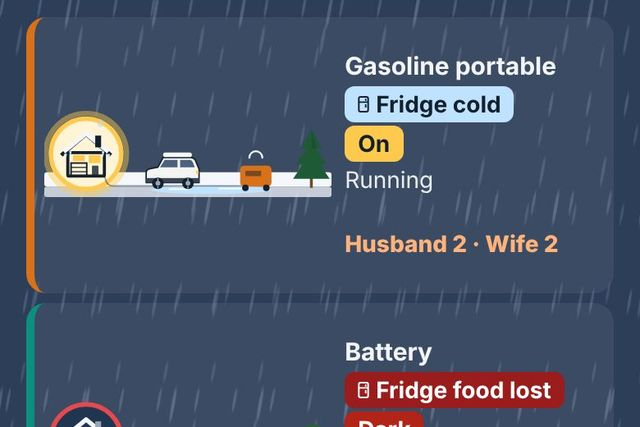
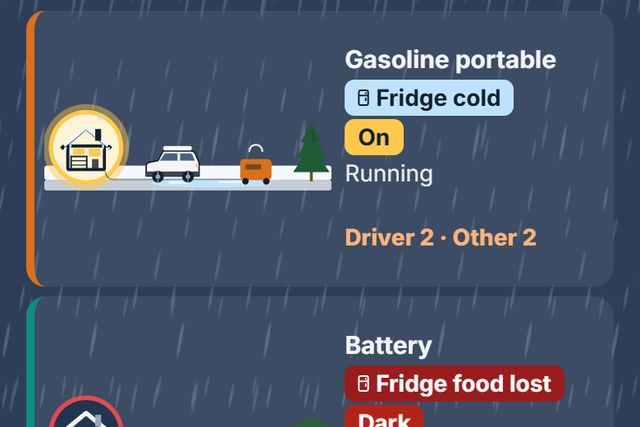
backup-power: make the household plainly invented (#2)
**TL;DR:** The storm test's household is now two invented people, one who drives and one who doesn't, instead of a husband and wife who could be mistaken for real people. The simulation and every number are unchanged.

diff --git a/pages/backup-power/app.js b/pages/backup-power/app.js
@@ -308,7 +308,7 @@ class Component extends DCLogic {
           var due = x0 + SB_OIL;
           if (!present(due)) { oilDue = due; if (H >= 1e9) break; due = H; }
           nOil++;
-          x0 = oilCheck(due, 0.5, nOil % 2 ? "Husband" : "Wife", "Daily oil check, off 30 minutes", (due > x0 + SB_OIL ? "Home from vacation; it ran with nobody checking the oil. " : "") + "Every 24 hours: shut it off for 30 minutes, check and top up the oil, restart.");
+          x0 = oilCheck(due, 0.5, nOil % 2 ? "Other person" : "Driver", "Daily oil check, off 30 minutes", (due > x0 + SB_OIL ? "Home from vacation; it ran with nobody checking the oil. " : "") + "Every 24 hours: shut it off for 30 minutes, check and top up the oil, restart.");
         }
         return out();
       }
@@ -320,7 +320,7 @@ class Component extends DCLogic {
       if (x >= 1e9) return out();
       var back = x > 0 ? "Home from vacation, house dark. " : "";
       if (d.batt) {
-        var sb0 = job(x, SU, "setup", "Wife", "Plugging in the battery", back + "Run the cord from the battery to the outside plug and flip the panel switch.", "Plug it in", "batt");
+        var sb0 = job(x, SU, "setup", "Driver", "Plugging in the battery", back + "Run the cord from the battery to the outside plug and flip the panel switch.", "Plug it in", "batt");
         dark.push([x, sb0 + SU]);
         battEnd = sb0 + SU + BATT_H;
         if (d.gen === "none") { dark.push([battEnd, 1e9]); return out(); }
@@ -332,7 +332,7 @@ class Component extends DCLogic {
       }
       var k = 0;
       function setup(at, prefix) {
-        var s = job(at, SU, "setup", "Husband", setupGen[0], prefix + setupGen[1], "Go outside", "gen");
+        var s = job(at, SU, "setup", "Other person", setupGen[0], prefix + setupGen[1], "Go outside", "gen");
         dark.push([at, s + SU]);
         return s + SU;
       }
@@ -343,7 +343,7 @@ class Component extends DCLogic {
         if (LL < 1e9 && LL < ev && H > x) {  // leaving during this run (or while it was still being set up)
           var P = Math.max(LL, x); LL = 1e9;
           if (d.gen === "gas") gasRuns.push([x, P]);
-          job(P, 0.25, "pack", "Husband", "Packing it up before leaving", "Leaving? It can't run with nobody home. Shut it off, let it cool, unhook it, roll it back in.", "Pack it up", "gen");
+          job(P, 0.25, "pack", "Other person", "Packing it up before leaving", "Leaving? It can't run with nobody home. Shut it off, let it cool, unhook it, roll it back in.", "Pack it up", "gen");
           dark.push([P, H]);
           if (H >= 1e9) break;
           x = setup(H, "Home from vacation, house dark. ");
@@ -352,13 +352,13 @@ class Component extends DCLogic {
         if (d.gen === "gas") {
           gasRuns.push([x, ev]); k++;
           var far = k % 4 === 3, ready = 0;
-          if (k >= 3 && k % 2 === 1) { var td = far ? 2.5 : 1.5; ready = job(ev - (far ? 4 : 3), td, "trip", "Wife", far ? "Nearest station had no power; driving farther" : "Driving out for gas, if a station has power", "Gas cans are empty. The husband doesn't drive anymore, so the wife goes, in this weather, hoping a station has power.", "Drive to the station") + td; }
-          var rs = job(Math.max(ev, ready), 0.25, "refill", k % 2 ? "Husband" : "Wife", "Refilling and checking oil, engine off", "Tank almost empty. Go out, shut it off, let it cool, refill, check the oil.", "Go refill it");
+          if (k >= 3 && k % 2 === 1) { var td = far ? 2.5 : 1.5; ready = job(ev - (far ? 4 : 3), td, "trip", "Driver", far ? "Nearest station had no power; driving farther" : "Driving out for gas, if a station has power", "Gas cans are empty. Only the driver can go, in this weather, hoping a station has power.", "Drive to the station") + td; }
+          var rs = job(Math.max(ev, ready), 0.25, "refill", k % 2 ? "Other person" : "Driver", "Refilling and checking oil, engine off", "Tank almost empty. Go out, shut it off, let it cool, refill, check the oil.", "Go refill it");
           dark.push([ev, rs + 0.25]);
           x = rs + 0.25;
         } else {
           nOil++;
-          x = oilCheck(ev, 0.25, nOil % 2 ? "Husband" : "Wife", "Oil check, engine off", "Every 8 hours: go out, shut it off, check and top up the oil, restart.");
+          x = oilCheck(ev, 0.25, nOil % 2 ? "Other person" : "Driver", "Oil check, engine off", "Every 8 hours: go out, shut it off, check and top up the oil, restart.");
         }
       }
       return out();
@@ -370,7 +370,7 @@ class Component extends DCLogic {
         if (x > 0) dark.push([0, x]);
         if (x >= 1e9) return out();
         var back = x > 0 ? "Home from vacation, house dark. " : "";
-        var s1 = job(x, 0.25, "setup", "Wife", "Plugging in the battery", back + "Run the cord from the battery to the outside plug and flip the panel switch.", "Plug it in", "batt");
+        var s1 = job(x, 0.25, "setup", "Driver", "Plugging in the battery", back + "Run the cord from the battery to the outside plug and flip the panel switch.", "Plug it in", "batt");
         if (s1 > x) dark.push([x, s1 + 0.25]);  // plugged in late: dark until the plug-in is done
         var LL = L;
         var t0 = setupGen(s1 + 0.25, "Push out the 263 lb generator and connect it to the battery. After this, the phone app starts and stops it.", s1 + 0.25 + BATT_H);
@@ -385,8 +385,8 @@ class Component extends DCLogic {
             if (r > t0) {
               k++;
               var ready = 0;
-              if (k >= 3 && k % 2 === 1 && r - 18 > t0) ready = job(r - 18, 1.5, "trip", "Wife", "Driving out for gas, if a station has power", "Gas cans are empty. The husband doesn't drive anymore, so the wife goes, hoping a station has power.", "Drive to the station") + 1.5;
-              var rs = job(Math.max(r, ready), 0.25, "refill", k % 2 ? "Husband" : "Wife", "Morning refill and oil check; the battery covers", "Morning: go out, refill the generator and check the oil. The battery keeps the house on meanwhile.", "Go refill it");
+              if (k >= 3 && k % 2 === 1 && r - 18 > t0) ready = job(r - 18, 1.5, "trip", "Driver", "Driving out for gas, if a station has power", "Gas cans are empty. Only the driver can go, hoping a station has power.", "Drive to the station") + 1.5;
+              var rs = job(Math.max(r, ready), 0.25, "refill", k % 2 ? "Other person" : "Driver", "Morning refill and oil check; the battery covers", "Morning: go out, refill the generator and check the oil. The battery keeps the house on meanwhile.", "Go refill it");
               var battDie = r - 8 + BATT_H;  // the battery carried the night from 11 PM
               if (rs > battDie) dark.push([battDie, rs + 0.25]);  // battery ran out before the refill: dark until it's done
               s0 = Math.max(s0, rs);
@@ -400,7 +400,7 @@ class Component extends DCLogic {
             if (e0 > s0) gasRuns.push([s0, e0]);
           }
           if (stopAt >= 400) break;
-          job(LL, 0.25, "pack", "Husband", "Packing up the generator before leaving", "Leaving? The generator can't run with nobody home. Shut it off, unhook it, roll it back in. The battery stays plugged in.", "Pack it up", "gen");
+          job(LL, 0.25, "pack", "Other person", "Packing up the generator before leaving", "Leaving? The generator can't run with nobody home. Shut it off, unhook it, roll it back in. The battery stays plugged in.", "Pack it up", "gen");
           var rem = comboOn(LL) ? BATT_H : Math.max(0, BATT_H - (LL - lastOffStart(LL)));
           var dk = LL + rem;
           if (H >= 1e9) { dark.push([dk, 1e9]); break; }
@@ -411,7 +411,7 @@ class Component extends DCLogic {
         return out();
       }
       function setupGen(at, ask, battDeadAt) {
-        var s = job(at, 0.5, "setup", "Husband", "Pushing out the 263 lb generator", ask, "Go outside", "gen");
+        var s = job(at, 0.5, "setup", "Other person", "Pushing out the 263 lb generator", ask, "Go outside", "gen");
         if (s > battDeadAt) dark.push([battDeadAt, s + 0.5]);
         return s + 0.5;
       }
@@ -471,7 +471,7 @@ class Component extends DCLogic {
       r.plan.chores.forEach(function (c) {
         if (c.wait) return;
         events.push(c);
-        if (c.kind === "trip") events.push({ a: c.b - 0.5, b: c.b, kind: "tripback", home: d.short, who: "Wife", ask: "Fill the cans, lift about 60 lb of gas into the car, drive home in this weather.", btn: "Drive home" });
+        if (c.kind === "trip") events.push({ a: c.b - 0.5, b: c.b, kind: "tripback", home: d.short, who: "Driver", ask: "Fill the cans, lift about 60 lb of gas into the car, drive home in this weather.", btn: "Drive home" });
       });
       var cover;
       if (t === 0) cover = d.gen === "ngs" ? "Starts by itself in about 30 seconds" : (away ? "Nobody home to set it up" : "Waiting for someone to set it up");
@@ -492,7 +492,7 @@ class Component extends DCLogic {
         now = w0.kind === "oil" && late > OIL_GRACE ? "Oil unchecked " + dur(late) + ": it shut itself off" : "Needs the " + w0.who.toLowerCase() + (late >= 0.25 ? " \u00B7 " + (late < 1 ? Math.round(late * 60) + " min" : dur(late)) + " late" : " outside");
         nowInk = r.on ? "#B4480C" : "#9B1C1C";
       }
-      else if (c) { now = slipping ? c.who + " slipped outside; caught " + (c.who === "Wife" ? "herself" : "himself") : c.who + ": " + c.text.charAt(0).toLowerCase() + c.text.slice(1); nowInk = "#B4480C"; }
+      else if (c) { now = slipping ? c.who + " slipped outside; caught themselves" : c.who + ": " + c.text.charAt(0).toLowerCase() + c.text.slice(1); nowInk = "#B4480C"; }
       else if (!present(t) && !r.on) { now = "Dark: away on vacation"; nowInk = "#9B1C1C"; }
       else if (d.gen === "ngs" && !present(t)) { now = r.plan.oilDue != null && t > r.plan.oilDue ? "Nobody home: oil unchecked " + dur(t - r.plan.oilDue + 24) : "Nobody home: running"; nowInk = r.plan.oilDue != null && t > r.plan.oilDue ? "#B4480C" : "#14532D"; }
       else if (!present(t)) {
@@ -533,12 +533,12 @@ class Component extends DCLogic {
           var P = 0, N = 0;
           r.plan.chores.forEach(function (ch) {
             var done = !ch.wait && ch.a <= t;
-            if (done) { if (ch.who === "Husband") P++; else N++; }
+            if (done) { if (ch.who === "Other person") P++; else N++; }
           });
-          return "Husband " + P + " \u00B7 Wife " + N;
+          return "Driver " + N + " \u00B7 Other " + P;
         })(),
         outsInk: d.gen === "ngs" ? "#8EE3A8" : "#FFB27A",
-        who: c ? c.who : "", pColor: c && c.who === "Wife" ? "#F27BC0" : "#FF8A3D",
+        who: c ? c.who : "", pColor: c && c.who === "Driver" ? "#F27BC0" : "#FF8A3D",
         trunkX: TREE[d.k][0], trunkY: TREE[d.k][1], trunkW: TREE[d.k][2], trunkH: TREE[d.k][3], treeD: TREE[d.k][4], treeFill: TREE[d.k][5], treeD2: TREE[d.k][6], swayCls: TREE[d.k][7],
         leafOp: d.k === LEAF.k && t >= LEAF.at ? "0" : "1",
         bareOp: d.k === LEAF.k && t >= LEAF.at ? "1" : "0",
@@ -634,8 +634,8 @@ class Component extends DCLogic {
       var hw = HOME_OPTS[homeKey], d = defs.filter(function (x) { return x.k === k; })[0];
       var P = makePlanner(hw[0], hw[1]).plan(d);
       var ch = P.chores.filter(function (c) { return c.a < T; });
-      var husband = ch.filter(function (c) { return c.who === "Husband"; }).length;
-      var wife = ch.length - husband;
+      var other = ch.filter(function (c) { return c.who === "Other person"; }).length;
+      var driver = ch.length - other;
       var hard = ch.filter(function (c) { return hardAt(c.a); }).length;
       var runs = ch.filter(function (c) { return c.kind === "trip"; }).length;
       var gh = 0; P.gasRuns.forEach(function (g) { gh += Math.max(0, Math.min(T, g[1]) - g[0]); });
@@ -644,7 +644,7 @@ class Component extends DCLogic {
       iv.forEach(function (x) { var m = merged[merged.length - 1]; if (m && x[0] <= m[1] + 0.01) m[1] = Math.max(m[1], x[1]); else merged.push([x[0], x[1]]); });
       var darkH = 0, longest = 0; merged.forEach(function (x) { darkH += x[1] - x[0]; longest = Math.max(longest, x[1] - x[0]); });
       var spoil = merged.filter(function (x) { return x[1] - x[0] >= 4; }).length;
-      return { spoil: spoil, d: d, chores: ch, n: ch.length, husband: husband, wife: wife, hard: hard, runs: runs, gal: Math.round(gh * GPH), darkH: darkH, longest: longest, dark: merged };
+      return { spoil: spoil, d: d, chores: ch, n: ch.length, other: other, driver: driver, hard: hard, runs: runs, gal: Math.round(gh * GPH), darkH: darkH, longest: longest, dark: merged };
     }
     function hrs(h) { return h < 1 ? (h < 0.05 ? "none" : "under 1 h") : (h < 48 ? Math.round(h) + " h" : (Math.round(h / 24 * 10) / 10) + " days"); }
     var R = runSandbox(SB.k, SB.T, SB.home), RS = runSandbox("ngs", SB.T, SB.home);
@@ -661,11 +661,11 @@ class Component extends DCLogic {
     if (R.d.k === "ngs") verdict = lenLabel + ", " + where + ": the standby is never dark longer than " + (R.longest <= 0.6 ? "30 minutes" : hrs(R.longest)) + ". " + (R.n ? "Its only chore is a short oil check about once a day (" + R.n + " in all)." : (SB.T <= 24 ? "Nothing to do in the first day." : "")) + (SB.home !== "home" && SB.T > 24 ? " While nobody is home, nobody checks the oil; Generac advises a check every 24 hours in long outages." : "");
     else if (R.n === 0) verdict = lenLabel + ", " + where + ": nobody can set it up, so the house is dark the whole time" + (R.spoil ? " and the fridge food is lost" + (R.longest >= 48 ? ", freezer too." : ".") : ".");
     else if (R.d.k !== "ngs" && false) verdict = "";
-    else verdict = lenLabel + ", " + where + ": " + R.n + (R.n === 1 ? " trip" : " trips") + " outside" + (R.hard ? ", " + R.hard + " of them at night" : "") + (R.runs ? ", and " + R.runs + " drive" + (R.runs > 1 ? "s" : "") + " for gas by the wife" : "") + (R.darkH < 0.05 ? ". Never dark" : ". Dark for " + hrs(R.darkH) + " in all") + (R.spoil ? ", and the fridge food is lost." : "; the fridge stays cold.");
+    else verdict = lenLabel + ", " + where + ": " + R.n + (R.n === 1 ? " trip" : " trips") + " outside" + (R.hard ? ", " + R.hard + " of them at night" : "") + (R.runs ? ", and " + R.runs + " drive" + (R.runs > 1 ? "s" : "") + " for gas by the driver" : "") + (R.darkH < 0.05 ? ". Never dark" : ". Dark for " + hrs(R.darkH) + " in all") + (R.spoil ? ", and the fridge food is lost." : "; the fridge stays cold.");
     var tiles = [
-      ["Trips outside", String(R.n), "Husband " + R.husband + " \u00B7 Wife " + R.wife],
+      ["Trips outside", String(R.n), "Driver " + R.driver + " \u00B7 Other " + R.other],
       ["At night (8 PM to 7 AM)", String(R.hard), R.n ? Math.round(R.hard / R.n * 100) + "% of trips" : "none"],
-      ["Gas runs (wife drives; this storm, illustrative)", String(R.runs), R.gal ? R.gal + " gal burned" : "no gasoline"],
+      ["Gas runs (the driver goes; this storm, illustrative)", String(R.runs), R.gal ? R.gal + " gal burned" : "no gasoline"],
       ["Hours dark", hrs(R.darkH), "of " + lenLabel],
       ["Fridge food", R.spoil ? "Lost" : "Safe", R.spoil ? (R.longest >= 48 ? "freezer too: dark " + hrs(R.longest) + " (USDA: 4 h fridge, 48 h full freezer)" : "dark " + hrs(R.longest) + " at once; USDA says 4 h") : "never dark 4 h at once"],
       ["Longest without heat", hrs(R.longest), R.longest >= 4 ? "gas furnace needs power to run" : "furnace keeps running"],

diff --git a/pages/backup-power/index.html b/pages/backup-power/index.html
@@ -92,7 +92,7 @@
     <div data-style="position: relative; isolation: isolate; overflow: hidden; min-height: 100vh; min-height: 100dvh; box-sizing: border-box; padding-top: max(12px, env(safe-area-inset-top, 0px)); padding-bottom: max(12px, env(safe-area-inset-bottom, 0px)); padding-left: max(16px, calc((100% - 1100px) / 2)); padding-right: max(16px, calc((100% - 1100px) / 2)); display: flex; flex-direction: column; gap: 10px; background: {{sky}}; color: {{skyInk}}; transition: background 0.4s" class="z3">
       <p class="z4">The storm test · backup power</p>
       <h1 class="z5">Same storm, five houses. Who has to go outside?</h1>
-      <p class="z6">An older couple in the Puget Sound area is choosing backup power. Each house tries one option in the same two-week winter storm. Watch who stays warm, and who has to go out in it.</p>
+      <p class="z6">Two people in the Puget Sound area are choosing backup power, and only one of them drives. Each house tries one option in the same two-week winter storm. Watch who stays warm, and who has to go out in it. The household is invented for this example.</p>
       <div class="orb" data-style="opacity: {{orbOp}}; background: {{orbBg}}; box-shadow: {{orbGlow}}"></div>
       <div class="rainbow" data-style="opacity: {{rainbowOp}}"></div>
       <div data-a-class="{{cloudCls}}" data-style="opacity: {{cloudOp}}"></div>
@@ -127,7 +127,7 @@
           <button type="button" data-on-click="promptAct" data-style="display: {{promptBtnDisp}}; flex: none; min-height: 48px; padding: 10px 16px; border-radius: 12px; border: 0; background: {{promptBtnBg}}; color: {{promptBtnInk}}; font: inherit; font-weight: 700; cursor: pointer; white-space: nowrap" class="z22"><span data-t="promptBtn"></span></button>
         </div>
       </div>
-      <p class="z23">Each home shows its fridge, its power, what is happening, and trips outside so far (husband and wife).</p>
+      <p class="z23">Each home shows its fridge, its power, what is happening, and trips outside so far (the driver and the other person).</p>
       <div role="list" aria-label="The street: one home per option" data-a-class="{{windCls}} z24">
         <template data-for="opts" data-as="o">
           <div role="listitem" data-a-aria-label="{{o.aria}}" class="iso z25" data-style="display: grid; grid-template-columns: minmax(0, 1fr) minmax(150px, 46%); align-items: stretch; gap: 8px; padding: 2px 8px 2px 6px; border-radius: 12px; background: {{o.rowBg}}; border-left: 5px solid {{o.accent}}; box-shadow: {{o.rowRing}}; transition: background .2s, box-shadow .2s">

diff --git a/pages/backup-power/README.md b/pages/backup-power/README.md
@@ -17,7 +17,7 @@ index.html, app.js and style.css are served as written, not minified.
 
 ## Numbers
 
-Prices, weights, tank sizes, noise, refill and oil-check intervals, and the fridge rule come from the sources below. Prices were checked on November 11, 2026. Everything else is illustrative, such as household use of about 400 W, 85% of the battery usable, chore times, gas runs and the weather.
+Prices, weights, tank sizes, noise, refill and oil-check intervals, and the fridge rule come from the sources below. Prices were checked on November 11, 2026. The household, two people of whom only one drives, is invented for the example. Everything else is illustrative too, such as household use of about 400 W, 85% of the battery usable, chore times, gas runs and the weather.
 
 Information only, not professional advice. Not affiliated with any company named here.
 
